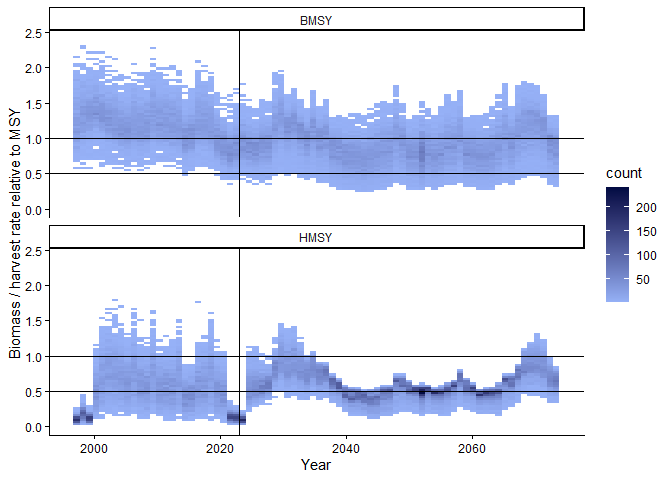
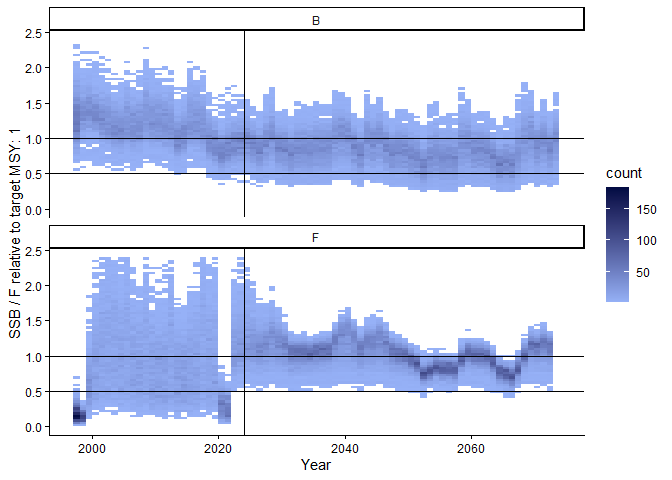
Updated documentation and Readme

diff --git a/README.md b/README.md
@@ -1,70 +1,67 @@
 
 <!-- README.md is generated from README.Rmd. Please edit that file -->
 
-# fishblicc HCR
+# Bayesian Index Based Management Strategy Evaluations
 
-This package is being superseded by a more generally approach that
-provides a simulation add-on to fishblicc, a Stan version of JABBA as
-well as JABBA as developed here. Therefore this repository will no loner
-be updated.
+This is an extension package for evaluating index-based harvest control
+rules for stock assessment state space production model JABBA ((Winker,
+Carvalho, and Kapur 2018)), a Stan version of the JABBA model and a
+length-based catch curve fishblicc (Medley 2025). The package allows
+testing of index-based linear harvest control rules against projections
+of these stock assessment models. This is a management strategy
+evaluation in that the linear index-based HCR is simpler than the stock
+assessment operating model, but clearly scenarios that can be tested are
+much more limited than software such as openMSE and FLR. The main
+advantage is that these evaluations can be undertaken very rapidly as an
+extension to the stock assessment and help incorporate uncertainty from
+the assessment into the scientific advice to management.
 
-This is an extension to the stock assessment state space production
-model JABBA (Winker et al. 2018) that allows testing of index-based
-linear harvest control rules against projections of the JABBA model.
-This is a management strategy evaluation in that the linear index-based
-HCR is simpler than the JABBA production operating model, but clearly
-scenarios that can be tested are more limited. This package is designed
-to identify index-based HCR that are consistent with management
-objectives based on a series of plausible fits of the JABBA model.
+This package is designed to identify index-based HCR that are consistent
+with management objectives based on a series of plausible fits of the
+stock assessment model.
 
-Index-based means it treats CPUE as a linear index of abundance - the
-same assumption as in JABBA itself. The CPUE is used to calculate an
+Index-based means it treats the calculated index as an index of
+abundance or mortality - the same assumption as in the stock assessment
+models. For the production models, the CPUE is used to calculate an
 index which then leads to adjustments in the control, either effort or
-catch limits. Controls such as closed areas or seasons would need to be
-translated into effort or catch limits to be applied in this model.
-
-JABBA is able to capture uncertainty, but this is difficult to use in
-decision-making in raw form. Using HCR enables the implications of this
-uncertainty to be evaluated through projections using risk-based
-reference points.
+catch limits. For the length-based catch curve, mean length is used as a
+proxy of fishing mortality. Controls such as closed areas or seasons
+would need to be translated into effort or catch limits or changes in
+selectivity to be applied in the simulations.
 
 ***WARNING: This software has not undergone much testing and so may well
 have bugs. It seems to work…***
 
-<a
-href="https://www.sciencedirect.com/science/article/pii/S0165783618300845"
-class="uri" title="JABBA Reference">Winker, H., Carvalho, F., Kapur, M.
-(2018) JABBA: Just Another Bayesian Biomass Assessment. Fisheries
-Research 204: 275-288.</a>
+## Installation
 
-fishblicc is a length-based catch-curve model (Paul A. H. Medley 2025)
-implemented in an R package (Paul A. H. Medley 2023).
-
-# Installation
-
-You can install the current version of JABBAHCR:
+You can install the current version of BIBMSE:
 
 ``` r
 if (! require("remotes")) install.packages("remotes")
-remotes::install_github("PaulAHMedley/JABBAHCR")
+remotes::install_github("PaulAHMedley/BIBCRE")
 ```
 
-JABBA is not required for this software, but clearly will be needed to
-generate a fit of the model. See <https://github.com/jabbamodel/JABBA>
-for installing and using JABBA.
+The stock assessment software is not a requirement to run the
+simulations, but clearly will be required to generate the model fits
+that are then used in this software.
 
-# Workflow
+See <https://github.com/jabbamodel/JABBA> for installing and using
+JABBA.
+
+## Workflow
 
 Typically, stock assessment evaluation using linear index-based harvest
 control rules would follow:
 
-1.  Generate one or more accepted JABBA fits using the JABBA package.
+1.  Generate one or more accepted stock assessment fits using the
+    relevant package.
 
-2.  Define the linear HCR, ma, change_limit ranges to test and generate
-    one or more HCR within a tibble
+2.  Define the linear control rules, moving average parameter (ma),
+    change_limit ranges to test and generate one or more HCR within a
+    tibble
 
-3.  Run all HCR to be tested on JABBA fit projections, generating
-    performance indicators for each HCR.
+3.  Run all HCR to be tested on stock assessment fit projections,
+    generating performance indicators for each HCR.
 
 4.  Generate plots and tables of HCR performance. Identify HCR to be
     rejected if they do not meet status objectives.
@@ -74,11 +71,7 @@ control rules would follow:
 Steps 2-5 can be repeated with different defined HCR, for example fine
 tuning HCR trigger points.
 
-The jabba fits can be a single fit or list of fits produced by JABBA.
-This package does not use JABBA directly, but is used to process JABBA
-output.
-
-# Example
+## Example
 
 In this simple example, we look at alternative harvest control rules
 (HCR) that might be applied. This is useful not only to identify HCR,
@@ -100,32 +93,31 @@ the JABBA fit and use these reference points to define and run an HCR in
 the JABBA projections.
 
 ``` r
-library("JABBAHCR")
+library("BIBCRE")
 ggplot2::theme_set(ggplot2::theme_classic())
-HCR <- create_HCR_MSE(jabba_seabob, 
-                       control_type = "Effort",
-                       ProjLength=50, 
+HCR <- create_JABBA_MSE(jabba_seabob,
+                       proj_length=50, 
                        nsim=1000)
 
-ref_pt <- MSY_refpt(jabba_seabob, ref_year=2022)
-HCR_sim <- with(ref_pt, HCR(c(IMSY*0.25, IMSY), c(0, fMSY), change_limit=NA, ma=0.5))
+ref_pt <- JABBA_MSY_refpt(jabba_seabob, ref_year=2022)
+HCR_sim <- with(ref_pt, HCR(c(IMSY*0.25, IMSY), c(0, FMSY), control_type="Effort", change_limit=NA, ma=0.5))
 ```
 
 The harvest control rule can be plotted.
 
 ``` r
-with(ref_pt, graph_linear_HCR(data.frame(ID=1, trIndex = c(IMSY*0.25, IMSY), trControl=c(0, fMSY), change_limit=NA, ma=0.5)))
+with(ref_pt, graph_linear_HCR(tibble::tibble(ID=1, trIndex = list(c(IMSY*0.25, IMSY)), trControl=list(c(0, FMSY)), change_limit=NA, ma=0.5)))
 ```
 
-<img src="man/figures/README-unnamed-chunk-3-1.png" width="100%" />
+<img src="man/figures/README-unnamed-chunk-3-1.png" alt="" width="100%" />
 
 An individual HCR simulation projection can be plotted.
 
 ``` r
-graph_sim_BMSY_FMSY(HCR_sim, type="both")
+graph_sim_Btar_Ftar(HCR_sim, type="both")
 ```
 
-<img src="man/figures/README-unnamed-chunk-4-1.png" width="100%" />
+<img src="man/figures/README-unnamed-chunk-4-1.png" alt="" width="100%" />
 
 And the proportion of the simulation spent in each status range based on
 the reference points.
@@ -134,7 +126,7 @@ the reference points.
 table_sim_status(HCR_sim)
 ```
 
-<img src="man/figures/README-unnamed-chunk-5-1.png" width="50%" height="50%" />
+<img src="man/figures/README-unnamed-chunk-5-1.png" alt="" width="50%" height="50%" />
 
 The HCR decision-making can be evaluated to some extent by checking
 whether its responses are coordinated to changes in stock status. The
@@ -149,7 +141,7 @@ should be performing.
 table_sim_decision(HCR_sim)
 ```
 
-<img src="man/figures/README-unnamed-chunk-6-1.png" width="50%" height="50%" />
+<img src="man/figures/README-unnamed-chunk-6-1.png" alt="" width="50%" height="50%" />
 
 Various performance indicators are recorded consisting of measures of
 catch (average, range and lower percentile) and stock status (measures
@@ -166,7 +158,7 @@ necessarily clarify comparisons between HCR.
 table_sim_performance(HCR_sim)
 ```
 
-<img src="man/figures/README-unnamed-chunk-7-1.png" width="100%" />
+<img src="man/figures/README-unnamed-chunk-7-1.png" alt="" width="100%" />
 
 To test a range of HCRs, they can be defined in a data frame (tibble),
 where each row defines an HCR to be tested. To do this, we define
@@ -194,20 +186,22 @@ NBreaks = 5
 change_limit = c(NA, 0.05, 0.15)
 ma = c(0.25, 0.5, 0.75)
 
-Control_Type <- "Effort"  # Effort or Catch
-TestHCR_df <- define_HCR_test_range(ref_pt$IMSY, ref_pt$fMSY, 
+TestHCR_df <- define_HCR_test_range(ref_pt$IMSY, ref_pt$FMSY, 
+                         control_type = "Effort",
                          rel_index_range = c(0.5, 1.2),
                          rel_control_range = c(0.0, 1.2), 
                          NInflex = 2, 
                          NBreaks = 5, 
                          change_limit = c(NA, 0.05, 0.15), 
-                         ma = c(0.25, 0.5, 0.75)) |>
-              dplyr::filter(purrr::map_lgl(trControl, ~ sum(.) > 0)) # remove the no fishing HCR
+                         ma = c(0.25, 0.5, 0.75),
+                         ctrl_pF = 1) |>
+  dplyr::filter(purrr::map_lgl(trControl, ~ sum(.) > 0)) |> # remove the no fishing
+  dplyr::mutate()
 
 graph_linear_HCR(TestHCR_df)
 ```
 
-<img src="man/figures/README-unnamed-chunk-8-1.png" width="100%" />
+<img src="man/figures/README-unnamed-chunk-8-1.png" alt="" width="100%" />
 
 In addition, we define three alternate limits of the control change from
 year to year, and three alternate moving average smoothing parameters.
@@ -244,7 +238,7 @@ criteria.
 graph_HCR_status(HCR_res, HCR)
 ```
 
-<img src="man/figures/README-unnamed-chunk-10-1.png" width="100%" />
+<img src="man/figures/README-unnamed-chunk-10-1.png" alt="" width="100%" />
 
 The other measures of performance are related to catches. The average
 catch and annual changes in catch are usually of interest. This is
@@ -259,7 +253,7 @@ increasing the catch more relative to the increase in catch range.
 graph_HCR_catches(HCR_res)
 ```
 
-<img src="man/figures/README-unnamed-chunk-11-1.png" width="100%" />
+<img src="man/figures/README-unnamed-chunk-11-1.png" alt="" width="100%" />
 
 In reviewing the HCR, it is worth evaluating its decision-making to see
 how it might be improved. The HCR can make two mistakes: not responding
@@ -272,7 +266,7 @@ worse, but the fewer mistakes the better the HCR should be performing.
 graph_HCR_decision(HCR_res)
 ```
 
-<img src="man/figures/README-unnamed-chunk-12-1.png" width="100%" />
+<img src="man/figures/README-unnamed-chunk-12-1.png" alt="" width="100%" />
 
 The lowest annual catch represented by the lower 10 percentile can be
 checked in relation to the change limit. Annual change limits are often
@@ -287,7 +281,7 @@ CandidateHCR_df <- HCR_res |>
 graph_HCR_status_catches(CandidateHCR_df)
 ```
 
-<img src="man/figures/README-unnamed-chunk-13-1.png" width="100%" />
+<img src="man/figures/README-unnamed-chunk-13-1.png" alt="" width="100%" />
 
 HCRs can be subset and plotted. For example, the top 5 HCRs with respect
 to status performance (proportion of the time in the target minus the
@@ -301,7 +295,7 @@ CandidateHCR_df |>
   graph_linear_HCR(HCR_ID=TRUE)
 ```
 
-<img src="man/figures/README-unnamed-chunk-14-1.png" width="100%" />
+<img src="man/figures/README-unnamed-chunk-14-1.png" alt="" width="100%" />
 
 Or the twelve highest ranking linear HCRs can be plotted. Rank is based
 on performance in relation to stock status and catch.
@@ -313,7 +307,7 @@ BestHCR <- CandidateHCR_df |>
 graph_linear_HCR(BestHCR, HCR_ID=TRUE)
 ```
 
-<img src="man/figures/README-unnamed-chunk-15-1.png" width="100%" />
+<img src="man/figures/README-unnamed-chunk-15-1.png" alt="" width="100%" />
 
 The performance indicators for these “best” HCR can be presented in a
 table.
@@ -322,7 +316,9 @@ table.
 table_HCR_performance(BestHCR)
 ```
 
-<img src="man/figures/README-unnamed-chunk-16-1.png" width="100%" />
+<img src="man/figures/README-unnamed-chunk-16-1.png" alt="" width="100%" />
+
+## Reference
 
 <div id="refs" class="references csl-bib-body hanging-indent"
 entry-spacing="0">
@@ -336,10 +332,11 @@ by Jan Jaap Poos. *ICES Journal of Marine Science* 82 (12): fsaf224.
 
 </div>
 
-<div id="ref-medley2023" class="csl-entry">
+<div id="ref-winker2018" class="csl-entry">
 
-Medley, Paul A. H. 2023. “Fishblicc: Bayesian Length Interval Catch
-Curve.” <https://github.com/PaulAHMedley/fishblicc>.
+Winker, Henning, Felipe Carvalho, and Maia Kapur. 2018. “JABBA: Just
+Another Bayesian Biomass Assessment.” *Fisheries Research* 204 (August):
+275288. <https://doi.org/10.1016/j.fishres.2018.03.010>.
 
 </div>
 
